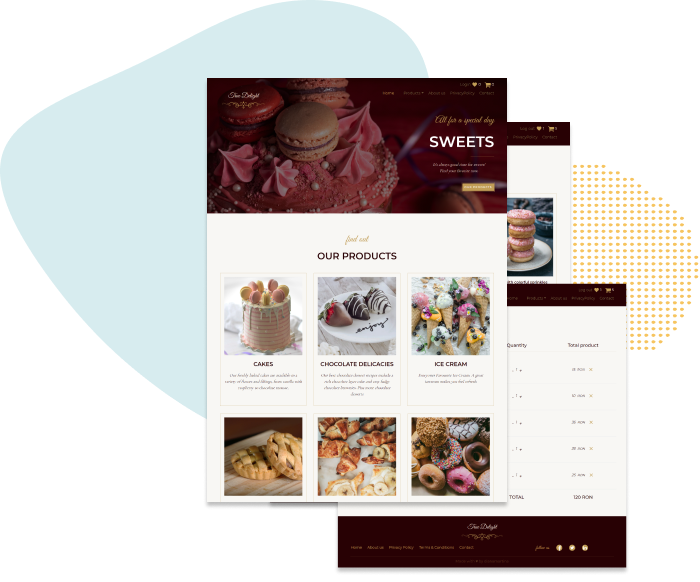
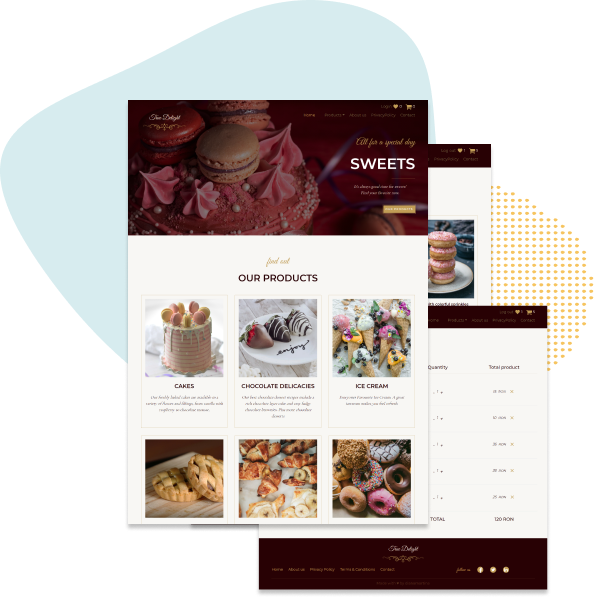
update text & hero

diff --git a/index.html b/index.html
@@ -263,7 +263,7 @@
                             </p>
                             <p class="text-description">
                                 The design is partially inspired from
-                                https://dolcino.qodeinteractive.com/luxury-desserts/
+                                dolcino.qodeinteractive.com
                             </p>
                             <div class="project-sources">
                                 <a href="https://react-true-delight-shop.herokuapp.com/" class="btn btn-full-pri"
@@ -302,6 +302,7 @@
                                 fugiat
                                 deserunt
                             </p>
+
                             <div class="project-sources">
                                 <a href="https://dianamartina.github.io/dream-garden/" class="btn btn-full-pri"
                                     target="_blank">View project</a>

diff --git a/css/queries.css b/css/queries.css
@@ -98,16 +98,16 @@
 
   .main-nav-list {
     flex-direction: column;
-    gap: 4.8rem;
+    gap: 3.6rem;
   }
 
   .main-nav-link:link,
   .main-nav-link:visited {
-    font-size: 3rem;
+    font-size: 2.6rem;
   }
 
   .main-nav-list .btn-outline-ter-sm {
-    font-size: 2.6rem;
+    font-size: 2.4rem;
   }
 
   .nav-open .main-nav {
@@ -254,7 +254,7 @@
   }
 
   .hero-image {
-    width: 70%;
+    max-width: 70%;
   }
 
   .hero-text {
@@ -337,7 +337,7 @@
   }
 
   .hero-image {
-    width: 100%;
+    max-width: 100%;
   }
 
   .hero-text-name {
@@ -419,7 +419,7 @@
   }
 
   .hero-text-job {
-    margin-left: 0;
+    /* margin-left: 0; */
     /* padding: 0.1rem 1.6rem; */
   }
 

diff --git a/css/general.css b/css/general.css
@@ -241,6 +241,7 @@ body {
   letter-spacing: 1px;
   line-height: 1.5;
   margin-bottom: 2rem;
+  overflow-wrap: break-word;
 }
 
 .text-white {
